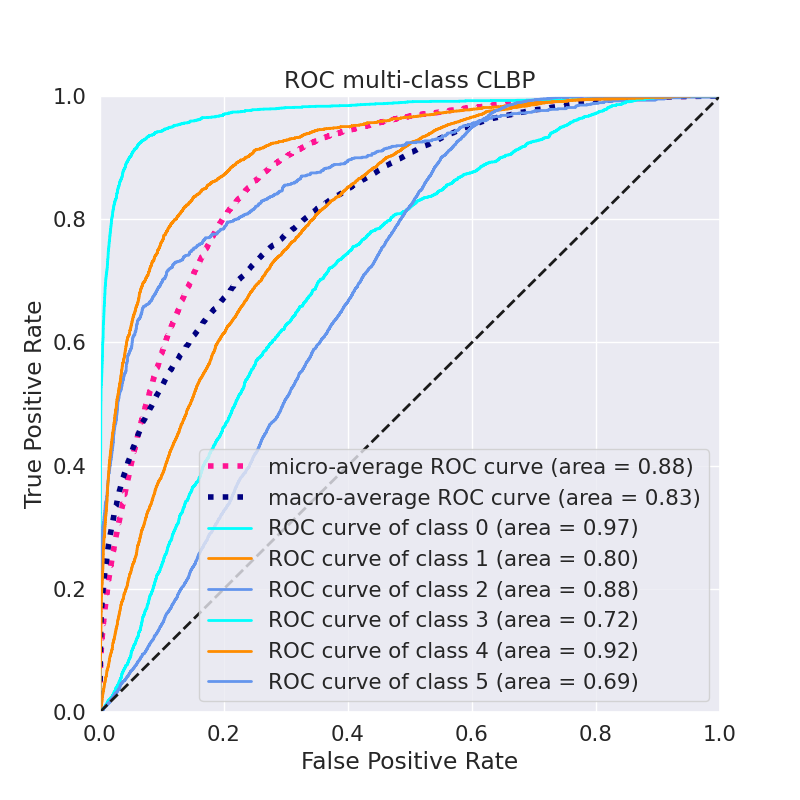
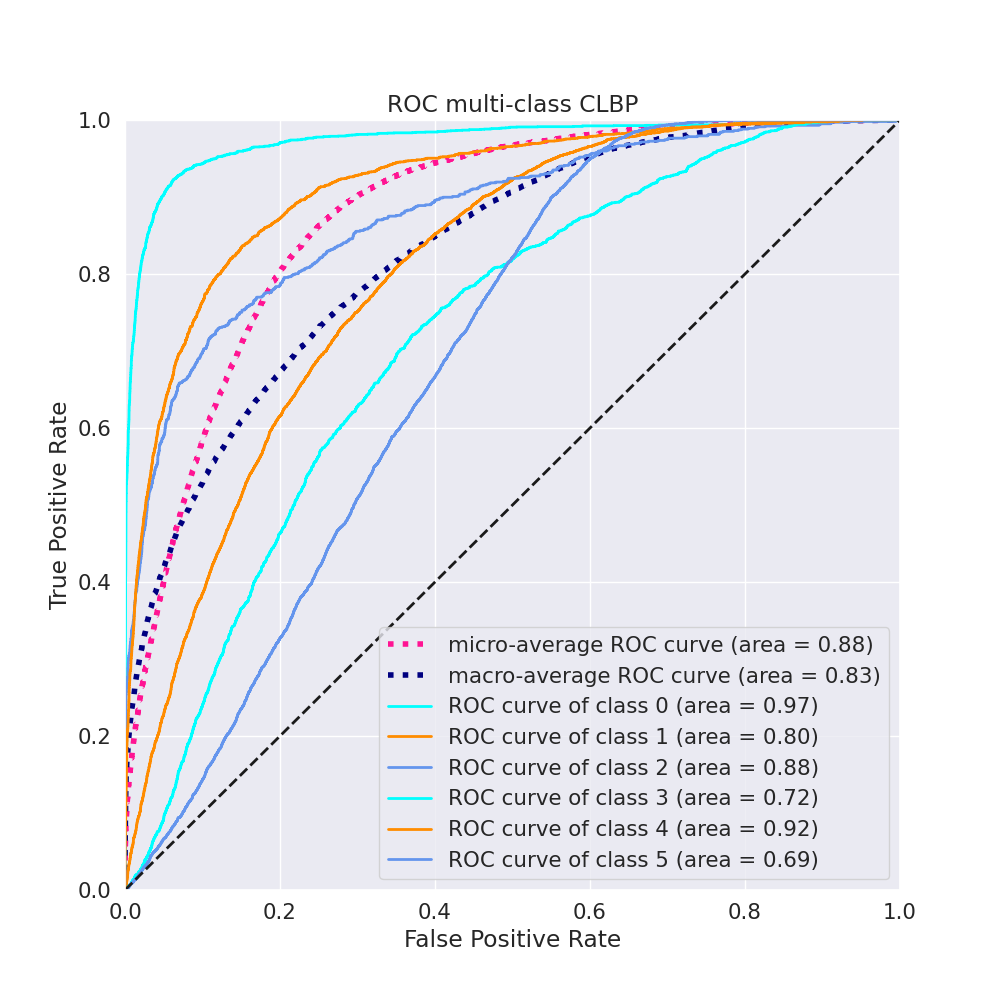
fix finish better

diff --git a/metrics.py b/metrics.py
@@ -36,7 +36,7 @@ for prediction in predictions.keys():
     
     n_classes = len(scores[0][0])
     
-    cm = np.ndarray((n_classes,n_classes),dtype='uint16')
+    cm = np.zeros((n_classes,n_classes),dtype='uint16')
 
     for value,pred,score in zip(values,preds,scores):
         bvalue = np.ndarray((len(value),n_classes),dtype='int8')
@@ -95,7 +95,7 @@ for prediction in predictions.keys():
     df.to_csv(f"results/{prediction}.csv",index=labels,index_label='labels')
 
     df_cm = pd.DataFrame(cm, range(6), range(6))
-    plt.figure(figsize=(6,6))
+    plt.figure(figsize=(10,10))
     ax = plt.axes()
     sn.set(font_scale=1.4) # for label size
     sn.heatmap(df_cm, annot=True, fmt='g', ax=ax) # font size
@@ -103,8 +103,10 @@ for prediction in predictions.keys():
     plt.ylabel('True Label')
     plt.xlabel('Predicated Label')
     plt.savefig(f"results/{prediction}_cm.png")
+    plt.cla()
     plt.clf()
-
+    
+    del cm
 
     # Compute ROC curve and ROC area for each class
     fpr = dict()
@@ -132,7 +134,7 @@ for prediction in predictions.keys():
     tpr["macro"] = mean_tpr
     roc_auc["macro"] = auc(fpr["macro"], tpr["macro"])
     
-    plt.figure(figsize=(8,8))
+    plt.figure(figsize=(10,10))
     lw = 2
     plt.plot(fpr["micro"], tpr["micro"],
             label='micro-average ROC curve (area = {0:0.2f})'
@@ -156,8 +158,11 @@ for prediction in predictions.keys():
     plt.xlabel('False Positive Rate')
     plt.ylabel('True Positive Rate')
     plt.title(f'ROC multi-class {prediction}')
-    plt.legend(loc="lower right")
+    plt.legend(loc="best")
     plt.savefig(f"results/{prediction}_roc.png")
+    plt.cla()
     plt.clf()
+
+
 
 
